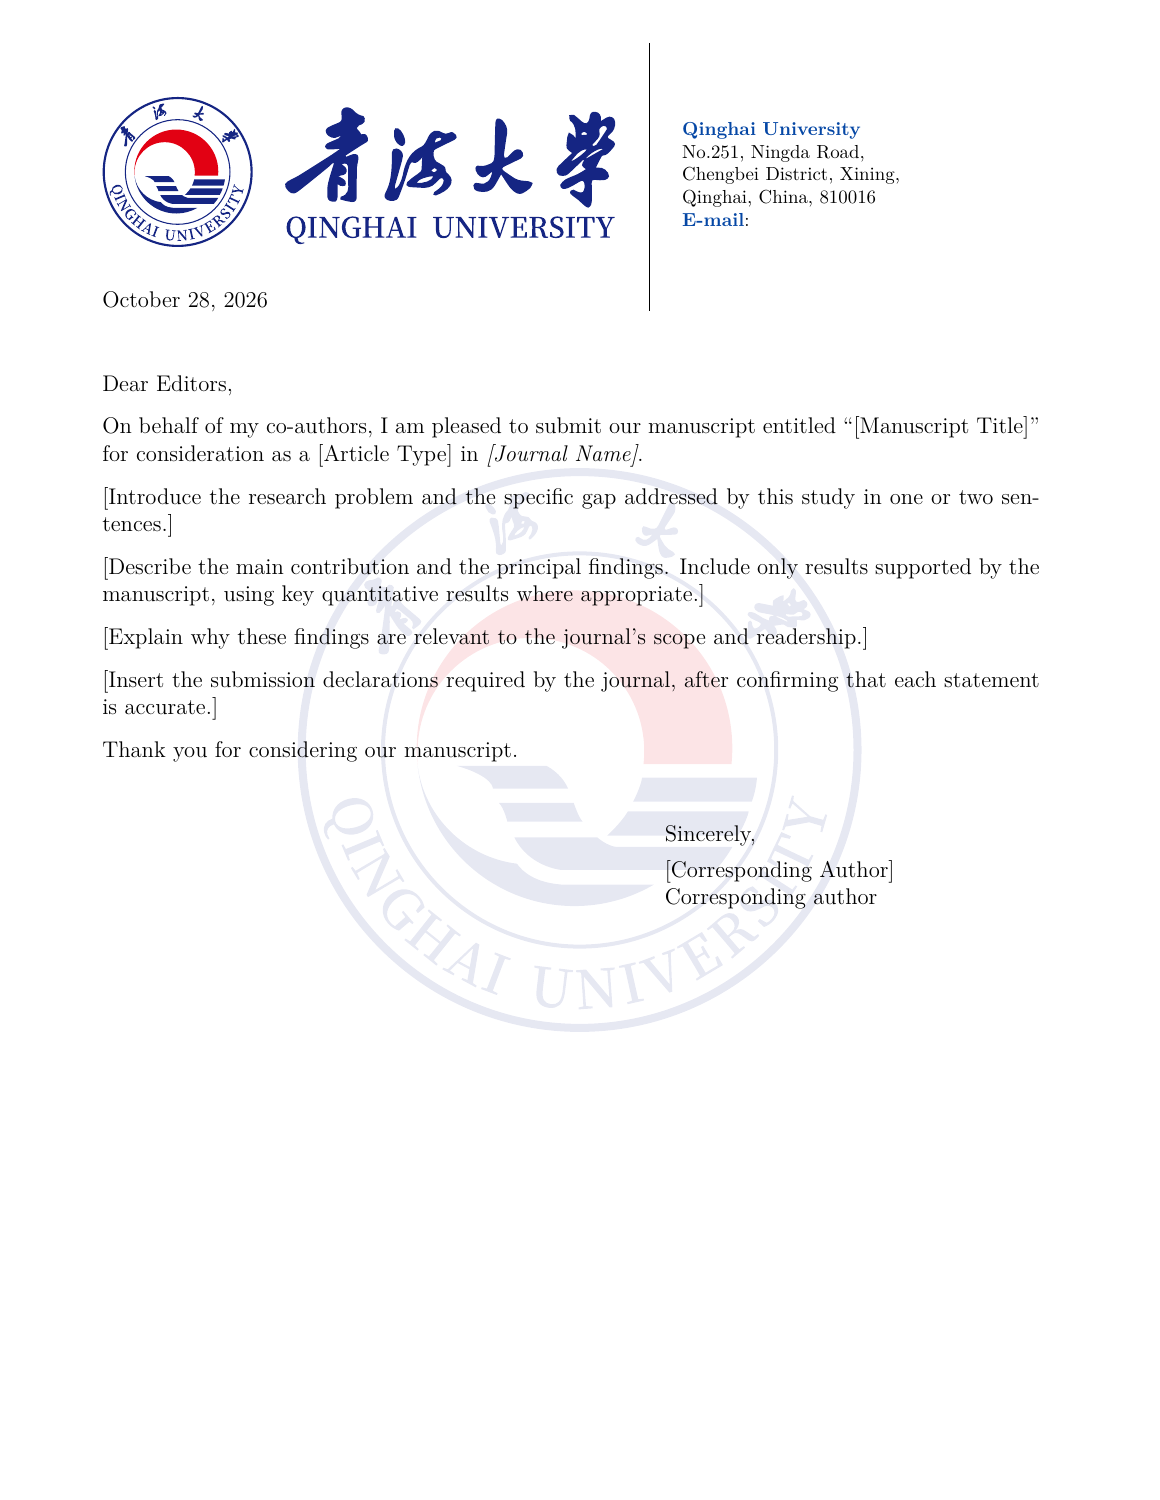
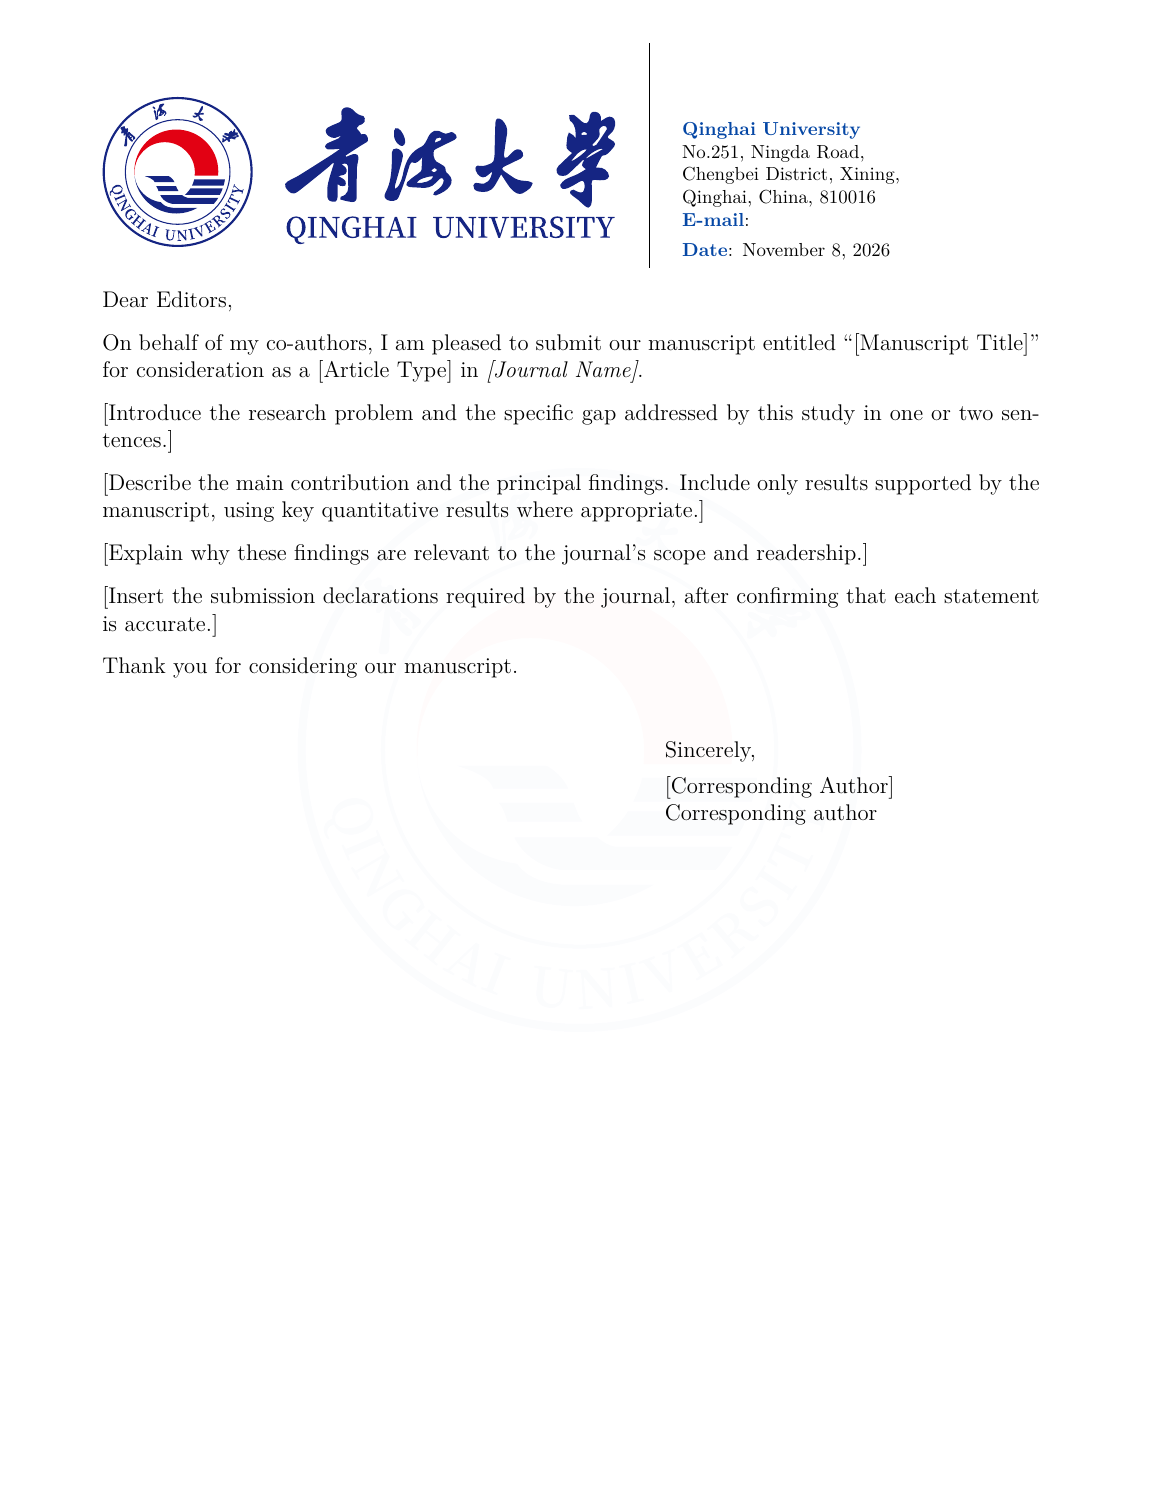
Update template watermark and align date with sender details

diff --git a/tests/layout_check.tex b/tests/layout_check.tex
@@ -8,7 +8,8 @@
 \begin{letter}{Test Editor}
 \opening{Dear Editor,}
 This page checks the first-page letterhead, an empty sender address,
-and an omitted subject. The date and recipient must remain visible.
+and an omitted subject. The date must appear at the top right, and the
+recipient must remain visible below the letterhead.
 \newpage
 This page checks that the watermark repeats and that the letterhead does
 not repeat. The closing below must use the name as its signature fallback.

diff --git a/README.md b/README.md
@@ -27,7 +27,7 @@
 
 | ✉ 信头与地址 | 🎨 校徽背景 | ✍ 正文与落款 |
 | --- | --- | --- |
-| 左侧学校信头，右侧联系信息，中间黑色竖线 | 居中、等比例、透明度可调，续页继续显示 | 日期左对齐，直接称呼编辑，落款位于右侧 |
+| 左侧学校信头，右侧联系信息与日期，中间黑色竖线 | 居中、等比例、淡化背景，续页继续显示 | 直接称呼编辑，落款位于右侧 |
 
 <a name="preview"></a>
 
@@ -97,7 +97,7 @@
 | 专业或学院 | 将 `\strut\\` 替换为 `\textbf{\color{qhublue}Your Department or School}\\` |
 | 邮箱 | 在 `E-mail}:` 后填入邮箱，例如 `your.name@example.com` |
 
-地址区域固定在右上角，建议不超过七行；增加内容后，检查是否与日期或分隔线下端重叠。
+地址区域固定在右上角，建议不超过七行；日期自动排在联系信息下方，无需写入 `\address`。增加内容后，请检查整个信头区域是否与正文重叠。
 
 ### 3. 日期与称呼
 
@@ -105,6 +105,8 @@
 \date{\today}              % 编译当天的日期
 % \date{October 28, 2026}  % 如需固定日期，启用这一行并修改日期
 ```
+
+日期显示在右上角联系信息下方；使用 `\date{}` 可隐藏日期。
 
 称呼在正文开始处设置：
 
@@ -136,16 +138,16 @@
 | 想调整什么？ | 当前默认值 | 修改方法 |
 | --- | --- | --- |
 | 正文字号 | `12pt` | 修改 `\documentclass[12pt]{QHUletter}` 中的字号，可选 10、11、12 pt |
-| 背景浓淡 | 不透明度 `0.15` | 重定义 `\watermarkopacity`，数值越小越淡 |
+| 背景浓淡 | 不透明度 `0.025` | 重定义 `\watermarkopacity`，数值越小越淡 |
 | 背景尺寸 | 宽度 `105mm` | 重定义 `\watermarkwidth`，保持等比例 |
 | 段间距 | `0.7em` | 设置 `\parskip` |
 | 纸张 | US Letter | 使用 `\geometry{a4paper,...}` 改为 A4 |
 
-例如，减淡背景、缩小校徽，并略微减小段间距：
+例如，进一步减淡背景、缩小校徽，并略微减小段间距：
 
 ```latex
 % 放在 main.tex 的导言区
-\renewcommand{\watermarkopacity}{0.08}
+\renewcommand{\watermarkopacity}{0.015}
 \renewcommand{\watermarkwidth}{100mm}
 \setlength{\parskip}{0.5em}
 ```
@@ -203,7 +205,7 @@ QHU-Cover-Letter-GitHub/
 | 找不到类文件或图片 | 检查四个必需文件是否同目录、文件名及大小写是否一致 |
 | 编译到了测试文件 | 将主文件重新设为 `main.tex` |
 | 中文正文显示异常 | 当前模板用于英文信函，中文正文需另行配置中文排版 |
-| 背景影响阅读 | 将不透明度改为较小值，例如 `0.08` |
+| 背景影响阅读 | 将不透明度改为较小值，例如 `0.015` |
 | 落款到了第二页 | 先精简正文或小幅减小段间距，再考虑调整字号 |
 | 修改源码后 GitHub 预览没变 | 重新编译并上传 `main.pdf`，同时更新 `images/template-preview.png` |
 
@@ -226,7 +228,9 @@ QHU-Cover-Letter-GitHub/
 
 ## ✅ 已完成的检查
 
-当前模板版本于 <strong>2026-10-28</strong> 完成验证：
+<strong>2026-11-08 版式更新：</strong>校徽背景默认不透明度改为 `0.025`，日期由 `\date{...}` 自动显示在右侧联系信息下方。更新后的单页模板与两页检查样例已用 Tectonic（XeTeX）重新编译并逐页检查，无文字溢出或缺字；示例 PDF 和预览图同步更新。本次未重新测试 pdfLaTeX 或 LuaLaTeX。
+
+原始模板于 <strong>2026-10-28</strong> 完成以下验证：
 
 - XeLaTeX、pdfLaTeX、LuaLaTeX 均成功编译单页模板，最终日志无警告和文字溢出提示。
 - 已检查实际渲染，以及两页文档、空收件人、无主题行、空地址和签名回退的显示。

diff --git a/docs/CUSTOMIZATION.md b/docs/CUSTOMIZATION.md
@@ -15,7 +15,7 @@
 | 调整项目 | 当前设置 | 修改方式 |
 | --- | --- | --- |
 | 正文字号 | `12pt` | 修改 `\documentclass[12pt]{QHUletter}`，可选 `10pt`、`11pt` 或 `12pt` |
-| 背景不透明度 | `0.15` | 重定义 `\watermarkopacity` |
+| 背景不透明度 | `0.025` | 重定义 `\watermarkopacity` |
 | 背景校徽宽度 | `105mm` | 重定义 `\watermarkwidth` |
 | 纸张与页边距 | US Letter，左右分别为 19.05、22.225 mm | 使用 `\geometry{...}` |
 | 段间距 | `0.7em` | 使用 `\setlength{\parskip}{...}` |
@@ -23,7 +23,7 @@
 <strong>调整背景大小和透明程度：</strong>在导言区加入：
 
 ```latex
-\renewcommand{\watermarkopacity}{0.08}
+\renewcommand{\watermarkopacity}{0.015}
 \renewcommand{\watermarkwidth}{100mm}
 ```
 
@@ -63,7 +63,7 @@
 | 地址宽度 | `text width=70mm` | 地址文字的排版宽度 |
 | 地址字体 | `\fontsize{10}{12}` | 字号 10 pt、行距 12 pt |
 | 竖线横向位置 | `xshift=121mm` | 距页面左边 121 mm |
-| 竖线起止位置 | `yshift=-8mm` 和 `yshift=-58mm` | 距页面上边 8 mm 到 58 mm |
+| 竖线起止位置 | `yshift=-8mm` 和 `yshift=-50mm` | 距页面上边 8 mm 到 50 mm |
 
 定位基准均为页面<strong>左上角</strong>。`xshift` 增大表示向右移动；`yshift` 越负，表示越向下移动。
 
@@ -85,7 +85,9 @@
 
 在 `QHUletter.cls` 中：
 
-- `\opening` 定义内的 `\vspace{1.5\baselineskip}` 控制日期之后的额外留白。
+- `\date{...}` 设置日期，自动显示在右侧联系信息下方；`\date{}` 隐藏日期。无需在 `\address` 中重复填写日期。
+- 地址和日期之间的 `\vspace{4pt}` 控制右侧联系信息与日期之间的留白。
+- `\opening` 定义内的 `\vspace{1.5\baselineskip}` 控制正文开头的额外留白。
 - `\closing` 定义内的 `\vspace{1.5\baselineskip}` 控制落款之前的额外留白。
 - `\closing` 定义内的 `\\[0.5\medskipamount]` 控制结束语与签名之间的额外留白。
 
@@ -129,7 +131,7 @@
 | 编译了检查样例 | 将主文件设回 `main.tex`，不要选择 `tests/layout_check.tex` |
 | 修改后预览没有变化 | 保存并重新编译，确认编辑的是当前项目中的 `main.tex` |
 | 地址换行过多或与日期重叠 | 缩短单位名称、减少行数，或调整地址字体和位置 |
-| 背景影响阅读 | 减小 `\watermarkopacity`，例如改为 `0.08` |
+| 背景影响阅读 | 减小 `\watermarkopacity`，例如改为 `0.015` |
 | 落款到了第二页 | 优先精简正文或小幅减小段间距，再检查字号和页边距 |
 | 中文正文显示异常 | 当前模板用于英文投稿信，未配置中文排版；使用中文需另行配置中文支持 |
 
@@ -173,7 +175,9 @@ xelatex -no-shell-escape -halt-on-error -output-directory=tests tests/layout_che
 
 打开生成的 `tests/layout_check.pdf`：第一页应有信头和背景，第二页应保留背景且不重复信头；同时检查文字、日期和落款是否完整。
 
-当前版本于 <strong>2026-10-28</strong> 完成以下检查：
+<strong>2026-11-08 版式更新：</strong>背景不透明度为 `0.025`，日期自动位于右侧联系信息下方。单页模板和两页检查样例已用 Tectonic（XeTeX）重新编译并逐页检查，无文字溢出或缺字；本次未重新测试 pdfLaTeX 或 LuaLaTeX。
+
+原始版本于 <strong>2026-10-28</strong> 完成以下检查：
 
 - XeLaTeX、pdfLaTeX、LuaLaTeX 均成功编译单页模板，最终日志无警告和文字溢出提示。
 - XeLaTeX 两页样例编译通过，已检查实际渲染。
